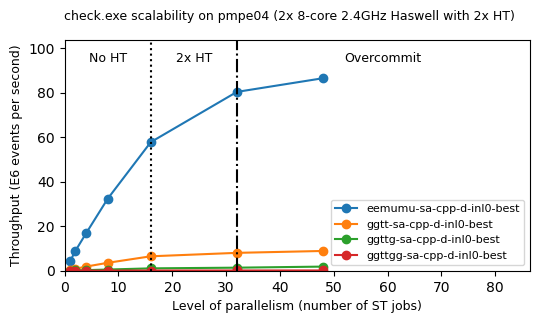
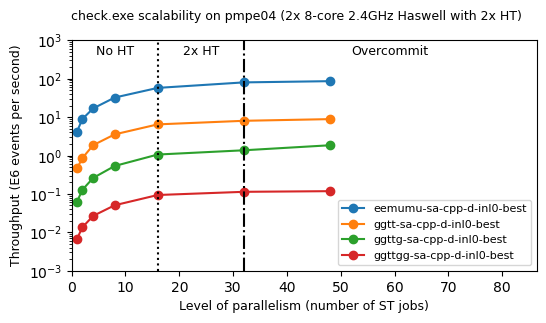
[bmk] compare four processes in log scale

diff --git a/tools/benchmarking/BMK-plots.py b/tools/benchmarking/BMK-plots.py
@@ -112,7 +112,7 @@ def dumpScoresAllKeys( runset_scores, keymatch=None, debug=False ):
 #---------------------------------------
 
 # Compare various curves in ST plots
-def axesST( ax, runset_scores, keymatch=None, abstput=True, xht=None, debug=False ):
+def axesST( ax, runset_scores, keymatch=None, abstput=True, ylog=False, xht=None, debug=False ):
     # Prepare axes labels
     ax.set_xlabel('Level of parallelism (number of ST jobs)', size=plots_labelsize )
     if abstput:
@@ -120,6 +120,7 @@ def axesST( ax, runset_scores, keymatch=None, abstput=True, xht=None, debug=Fals
     else:
         ax.set_ylabel('Throughput ratio to 1 no-SIMD job', size=plots_labelsize )
         ax.grid()
+    if ylog: ax.set_yscale( 'log' )
     # Add one curve per matching score key
     xmax = 0
     ymax = 0
@@ -149,17 +150,25 @@ def axesST( ax, runset_scores, keymatch=None, abstput=True, xht=None, debug=Fals
         # Add curve of y vs x
         p = ax.plot( xvals, yvals, marker='o', label=score_key )
     # Decorate axes
-    xmax *= 1.8
-    ymax *= 1.2
     loc = 'lower right'
     ax.legend( loc=loc, fontsize=plots_legendsize )
-    ax.axis( [0, xmax, 0, ymax] )
+    xmin = 0
+    xmax *= 1.8
+    if ylog:
+        ymin = 0.001
+        ymax *= 12
+        ytxt = 0.5 * ymax
+    else:
+        ymin = 0
+        ymax *= 1.2
+        ytxt = 0.92 * ymax
+    ax.axis( [xmin, xmax, ymin, ymax] )
     if xht is not None :
         ax.axvline( xht, color='black', ls=':' )
         ax.axvline( xht*2, color='black', ls='-.' )
-        ax.text( xht/2, 0.92*ymax, 'No HT', ha='center', va='center', size=plots_txtsize )
-        ax.text( xht*3/2, 0.92*ymax, '2x HT', ha='center', va='center', size=plots_txtsize )
-        ax.text( xmax/2+xht, 0.92*ymax, 'Overcommit', ha='center', va='center', size=plots_txtsize )
+        ax.text( xht/2, ytxt, 'No HT', ha='center', va='center', size=plots_txtsize )
+        ax.text( xht*3/2, ytxt, '2x HT', ha='center', va='center', size=plots_txtsize )
+        ax.text( xmax/2+xht, ytxt, 'Overcommit', ha='center', va='center', size=plots_txtsize )
 
 # Get node-dependent features
 def getNodeFeatures( workdir ):
@@ -172,7 +181,7 @@ def getNodeFeatures( workdir ):
     return xht, ftitle
     
 # Create a figure with a single plot
-def plotST( workdir, keymatch=None, abstput=True, debug=False ):
+def plotST( workdir, keymatch=None, abstput=True, ylog=False, debug=False ):
     runset_scores = loadRunSet( workdir )
     xht, ftitle = getNodeFeatures( workdir )
     pngpath = workdir + '/' + keymatch + '.png'
@@ -180,7 +189,7 @@ def plotST( workdir, keymatch=None, abstput=True, debug=False ):
     fig = plt.figure( figsize=plots_figsize )
     ax1 = fig.add_subplot( 111 )
     # Fill the plot in the figure
-    axesST( ax1, runset_scores, keymatch=keymatch, xht=xht, abstput=abstput, debug=debug )
+    axesST( ax1, runset_scores, keymatch=keymatch, ylog=ylog, xht=xht, abstput=abstput, debug=debug )
     if ftitle is not None: fig.suptitle( ftitle, size=plots_ftitlesize )
     # Save and show the figure
     fig.savefig( pngpath, format='png', bbox_inches="tight" )
@@ -208,9 +217,9 @@ def plotOneProcess2( workdir, oneprocess, keymatch, debug=False ):
         ###print( idx1, idx2 )
         fullkeymatch = process + '-' + keymatch
         ax1 = fig.add_subplot( idx1 )
-        axesST( ax1, runset_scores, keymatch=fullkeymatch, xht=xht, abstput=True, debug=debug )
+        axesST( ax1, runset_scores, keymatch=fullkeymatch, ylog=False, xht=xht, abstput=True, debug=debug )
         ax1 = fig.add_subplot( idx2 )
-        axesST( ax1, runset_scores, keymatch=fullkeymatch, xht=xht, abstput=False, debug=debug )
+        axesST( ax1, runset_scores, keymatch=fullkeymatch, ylog=False, xht=xht, abstput=False, debug=debug )
         idx1 += 2
         idx2 += 2
     # Save and show the figure
@@ -237,11 +246,12 @@ if __name__ == '__main__':
     #dumpScoresAllKeys( loadRunSet( 'BMK-pmpe04'), keymatch='inl0-best' )
     #dumpScoresAllKeys( loadRunSet( 'BMK-pmpe04'), keymatch='ggttgg-sa-cpp-d-inl0' )
 
-    plotST( 'BMK-pmpe04', keymatch='d-inl0-best' )
+    plotST( 'BMK-pmpe04', keymatch='d-inl0-best', ylog=True )
+    plotST( 'BMK-pmpe04', keymatch='f-inl0-best', ylog=True )
 
-    #plotOneProcess2( 'BMK-pmpe04', 'ggttgg', 'sa-cpp-d-inl0' )
-    #plotOneProcess2( 'BMK-pmpe04', 'ggttgg', 'sa-cpp-f-inl0' )
+    plotOneProcess2( 'BMK-pmpe04', 'ggttgg', 'sa-cpp-d-inl0' )
+    plotOneProcess2( 'BMK-pmpe04', 'ggttgg', 'sa-cpp-f-inl0' )
 
-    #plotOneProcess2( 'BMK-pmpe04', None, 'sa-cpp-d-inl0' )
-    #plotOneProcess2( 'BMK-pmpe04', None, 'sa-cpp-f-inl0' )
+    plotOneProcess2( 'BMK-pmpe04', None, 'sa-cpp-d-inl0' )
+    plotOneProcess2( 'BMK-pmpe04', None, 'sa-cpp-f-inl0' )
 
